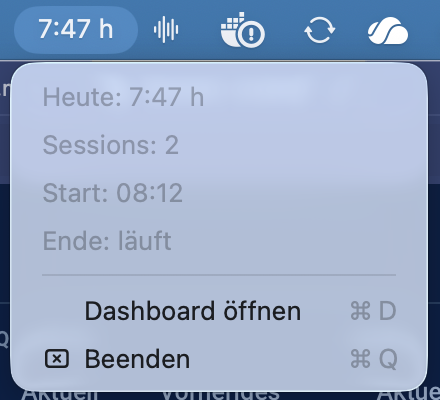
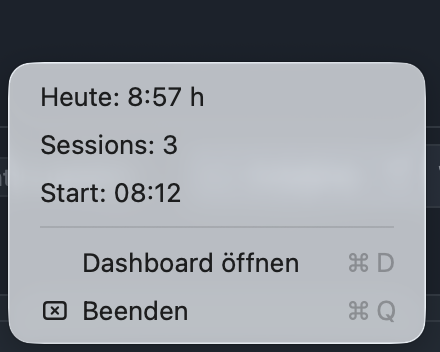
feat(menubar): app bundle in ~/Applications for Raycast, readable menu rows
- install.sh builds ~/Applications/Session Tracker.app (LSUIElement) and the
  LaunchAgent starts its executable; opening the app while it runs does not
  start a second instance
- session-report: next to the binary, else ~/.local/bin
- info rows enabled without action: AppKit dims disabled items regardless of
  the text colour
- CI lints all plists; demo screenshot updated

Claude-Session: https://claude.ai/code/session_01UD3P9VErjzS9A8okAdJkoi

diff --git a/tracker/session-menubar.swift b/tracker/session-menubar.swift
@@ -1,10 +1,11 @@
 // Menubar: heutige Anwesenheit (Gesamtzeit, Sessions, Start) und Sprung ins Dashboard.
-// Build: swiftc -O -o ~/.local/bin/session-menubar session-menubar.swift
+// Build: install.sh legt das Binary in ~/Applications/Session Tracker.app (Raycast/Spotlight finden es dort).
 import AppKit
 
 // Zahlen kommen aus session-report, damit Menubar, CLI und Dashboard dieselbe Block-Logik nutzen.
-// Liegt neben diesem Binary (install.sh: ~/.local/bin), so lässt sich ein Checkout testen, ohne die Installation anzufassen.
-let report = URL(fileURLWithPath: CommandLine.arguments[0]).resolvingSymlinksInPath().deletingLastPathComponent().appendingPathComponent("session-report").path
+// Erst neben diesem Binary (Checkout testen, ohne die Installation anzufassen), sonst die installierte Fassung.
+let neben = URL(fileURLWithPath: CommandLine.arguments[0]).resolvingSymlinksInPath().deletingLastPathComponent().appendingPathComponent("session-report").path
+let report = FileManager.default.isExecutableFile(atPath: neben) ? neben : NSHomeDirectory() + "/.local/bin/session-report"
 let dashboard = URL(string: "http://127.0.0.1:8765")!
 
 func heute() -> [String: Any]? {
@@ -35,7 +36,8 @@ final class App: NSObject, NSMenuDelegate {
         super.init()
         let menu = NSMenu()
         menu.autoenablesItems = false
-        zeilen.forEach { $0.isEnabled = false; menu.addItem($0) }
+        // Aktiv ohne Aktion: deaktivierte Einträge dimmt AppKit unabhängig von der Textfarbe; ein Klick schließt nur das Menü.
+        zeilen.forEach { menu.addItem($0) }
         menu.addItem(.separator())
         let open = NSMenuItem(title: "Dashboard öffnen", action: #selector(oeffnen), keyEquivalent: "d")
         open.target = self
@@ -52,20 +54,13 @@ final class App: NSObject, NSMenuDelegate {
     func aktualisieren() {
         guard let h = heute() else {
             item.button?.title = "– h"
-            zeigen(["session-report nicht erreichbar", "", ""])
+            zip(zeilen, ["session-report nicht erreichbar", "", ""]).forEach { $0.title = $1 }
             return
         }
         let gesamt = dauer(h["gesamt_s"] as? Int ?? 0)
         item.button?.title = gesamt
         // Kein "Ende": wer das Menü sieht, ist eingeloggt, der letzte Block läuft also immer noch.
-        zeigen(["Heute: \(gesamt)", "Sessions: \(h["sessions"] as? Int ?? 0)", "Start: \(zeit(h["start"]))"])
-    }
-
-    // Deaktivierte Zeilen zeichnet AppKit blass; Textfarbe explizit, damit die Werte lesbar bleiben.
-    func zeigen(_ texte: [String]) {
-        for (z, t) in zip(zeilen, texte) {
-            z.attributedTitle = NSAttributedString(string: t, attributes: [.foregroundColor: NSColor.labelColor, .font: NSFont.menuFont(ofSize: 0)])
-        }
+        zip(zeilen, ["Heute: \(gesamt)", "Sessions: \(h["sessions"] as? Int ?? 0)", "Start: \(zeit(h["start"]))"]).forEach { $0.title = $1 }
     }
 
     // Dashboard läuft per LaunchAgent; ist es nicht erreichbar, erst den Agent anstoßen, dann öffnen.

diff --git a/README.md b/README.md
@@ -17,7 +17,7 @@ Presence and working-time tracker for macOS. A tiny background process records w
 - **Tracker** (`tracker/session-tracker.swift`): a LaunchAgent that writes events (`start`, `unlock`, `lock`, `sleep`, `wake`, `display_on`, `display_off`, `logout`, `stop`, heartbeats) to a local SQLite file.
 - **Report** (`bin/session-report`): builds presence blocks from the events, merges pauses shorter than a threshold (default 5 min) and prints per-day totals plus a per-year table (average per day, days under a threshold, average without those days).
 - **Dashboard** (`bin/session-dashboard`, `dashboard/dashboard.html`): local web UI on `http://127.0.0.1:8765` with blocks, raw events, filters, CSV export, a "today" tile that refreshes every minute and 13 period selectors (current/previous week, month, quarter, year, last 4 weeks, last 3/6 months, all time).
-- **Menubar** (`tracker/session-menubar.swift`): a LaunchAgent that shows today's total in the menu bar; its menu lists total, sessions (blocks after merging short pauses) and start and opens the dashboard (starting its LaunchAgent if it is not reachable). Numbers come from `session-report --heute --json` and refresh every minute. "Beenden" quits it until the next login; after a crash launchd restarts it.
+- **Menubar** (`tracker/session-menubar.swift`, installed as `~/Applications/Session Tracker.app`, so Raycast and Spotlight find it): a LaunchAgent that starts at login and shows today's total in the menu bar; its menu lists total, sessions (blocks after merging short pauses) and start and opens the dashboard (starting its LaunchAgent if it is not reachable). Numbers come from `session-report --heute --json` and refresh every minute. "Beenden" quits it until the next login or until you open the app again; after a crash launchd restarts it.
 - **Backfill** (`bin/session-backfill`, optional): derives *estimated* working times for the time before tracking started from traces macOS and your apps already keep: app usage (knowledgeC), unlock events in the unified log, browser history (Chrome, Arc, Brave, Edge, Safari, Firefox), shell history, Claude Code prompts and downloads. Stored separately in the table `derived` and marked as derived (`~`, "hergeleitet"). Off by default, never mixed into tracked data. SSH logins are not read from system logs.
 
 ![Dashboard, last month](docs/screenshots/dashboard-last-month.png)
@@ -32,7 +32,7 @@ cd session-tracker
 ./install.sh
 ```
 
-This copies the tools to `~/.local/bin`, the dashboard to `~/.local/share/session-tracker`, compiles the tracker and the menubar app and loads three LaunchAgents (`dev.hpmartini.session-tracker`, `dev.hpmartini.session-dashboard`, `dev.hpmartini.session-menubar`). Data lives in `~/.local/share/session-tracker/events.sqlite`.
+This copies the tools to `~/.local/bin`, the dashboard to `~/.local/share/session-tracker`, compiles the tracker, builds the menubar app in `~/Applications/Session Tracker.app` and loads three LaunchAgents (`dev.hpmartini.session-tracker`, `dev.hpmartini.session-dashboard`, `dev.hpmartini.session-menubar`). Data lives in `~/.local/share/session-tracker/events.sqlite`.
 
 To uninstall:
 
@@ -40,7 +40,8 @@ To uninstall:
 for n in session-tracker session-dashboard session-menubar; do
   launchctl bootout "gui/$(id -u)/dev.hpmartini.$n"; rm ~/Library/LaunchAgents/dev.hpmartini.$n.plist
 done
-rm ~/.local/bin/session-{tracker,menubar,report,dashboard,backfill}   # data stays in ~/.local/share/session-tracker
+rm ~/.local/bin/session-{tracker,report,dashboard,backfill}   # data stays in ~/.local/share/session-tracker
+rm -r ~/Applications/"Session Tracker.app"
 ```
 
 ## Usage
@@ -79,7 +80,7 @@ python3 scripts/make-demo-db.py /tmp/demo.sqlite
 SESSION_DB=/tmp/demo.sqlite bin/session-dashboard 8791   # open http://127.0.0.1:8791
 ```
 
-The menubar app reads `session-report` from its own directory, so a checkout can be tried without touching the install (the demo data has no events for today, so it shows `0:00 h`):
+The menubar app reads `session-report` from its own directory (falling back to `~/.local/bin`), so a checkout can be tried without touching the install (the demo data has no events for today, so it shows `0:00 h`):
 
 ```sh
 swiftc -O -o bin/session-menubar tracker/session-menubar.swift
@@ -88,7 +89,7 @@ SESSION_DB=/tmp/demo.sqlite bin/session-menubar
 
 ![Menubar with demo data](docs/screenshots/menubar.png)
 
-*Demo database plus two synthetic blocks for today (08:12–12:05 and an open one since 12:48, with heartbeats), so the menu shows "Ende: läuft".*
+*Demo database plus three synthetic blocks for today (with heartbeats), so the menu shows non-zero numbers.*
 
 The dashboard needs the tools installed in `~/.local/bin` (run `./install.sh` once) because it imports `session-report` from there.
 

diff --git a/CHANGELOG.md b/CHANGELOG.md
@@ -5,7 +5,7 @@ Format based on [Keep a Changelog](https://keepachangelog.com/en/1.1.0/), versio
 ## [Unreleased]
 
 ### Added
-- Menubar app (`tracker/session-menubar.swift`, LaunchAgent `dev.hpmartini.session-menubar`): today's total in the menu bar, a menu with total, sessions and start, and "Dashboard öffnen" (starts the dashboard agent if it is not reachable).
+- Menubar app (`tracker/session-menubar.swift`, installed as `~/Applications/Session Tracker.app` so Raycast and Spotlight find it, started at login by the LaunchAgent `dev.hpmartini.session-menubar`): today's total in the menu bar, a menu with total, sessions and start, and "Dashboard öffnen" (starts the dashboard agent if it is not reachable).
 - `session-report --heute --json`: today's numbers as JSON; `session-report` honours `SESSION_DB` like the dashboard.
 
 ### Fixed
